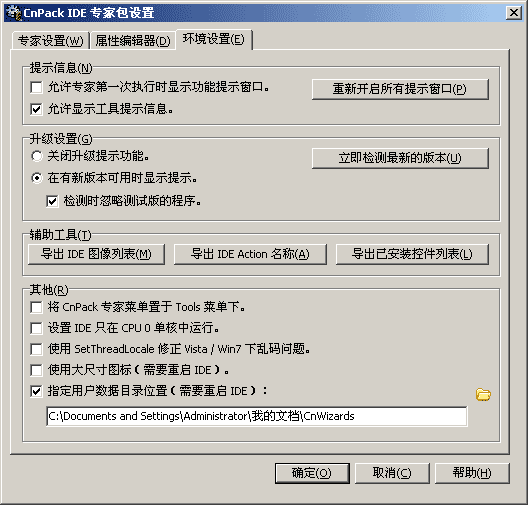
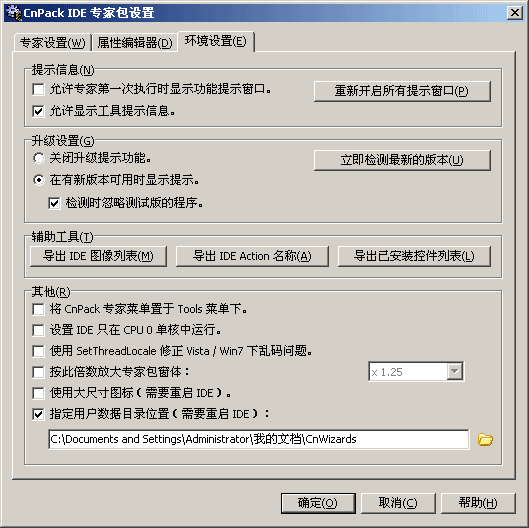
* [Help] Update Help for Scale Feature.

Changed region(s): [[0.0, 0.0, 1.0, 0.9802], [0.697, 0.6832, 0.8788, 0.7426], [0.9394, 0.0297, 1.0, 0.0594]]

diff --git a/Help/CnWizards_ENU/options/otherconfig.htm b/Help/CnWizards_ENU/options/otherconfig.htm
@@ -82,10 +82,13 @@ Packages.txt and Components.txt file, for developers. Control names may duplicat
 <p class="text"><b>Integrate CnPack Menu into Tools Menu</b>: Put the 'CnPack' menu item into 'Tools' menu or in main menu.</p>
   </li>
   <li>
-<p class="text"><b>Set IDE to run in CPU 0 single core</b>: Used to fix some conflict under multi-core system.</p>
+<p class="text"><b>Set IDE to Run in CPU 0 Single Core</b>: Used to fix some conflict under multi-core system.</p>
   </li>
   <li>
-<p class="text"><b>Use SetThreadLocale to fix encode problem under Vista / Win7</b>: Used to fix encode problem in some IDE.</p>
+<p class="text"><b>Use SetThreadLocale to Fix Encode Problem under Vista / Win7</b>: Used to fix encode problem in some IDE.</p>
+  </li>
+  <li>
+<p class="text"><b>Scale All CnWizards Forms by</b>: Check this option and select a Multiplier to scale all CnWizards Forms for large screen users.</p>
   </li>
   <li>
 <p class="text"><b>Use Large Icons</b>: Check this Option to use large icons in float toolbar and other place. Need restart IDE.</p>
